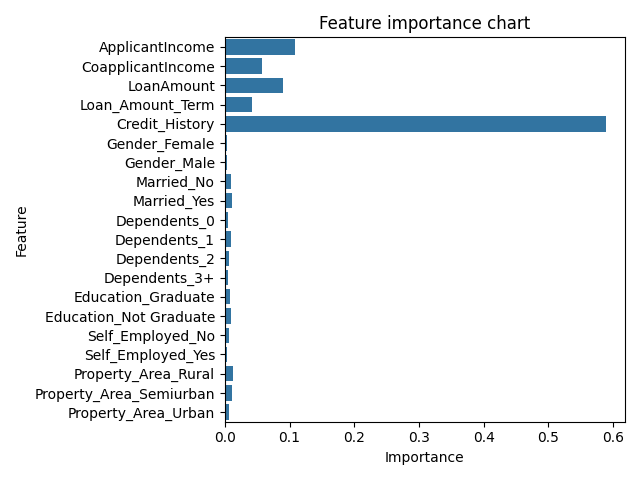
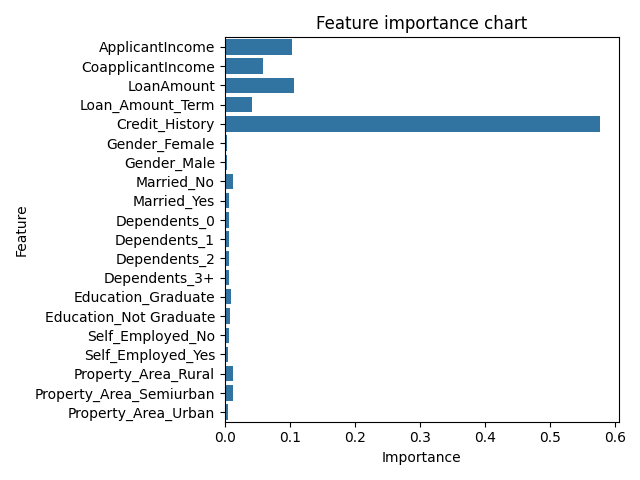
Update README.md

diff --git a/README.md b/README.md
@@ -1,35 +1,89 @@
-# loan_eligibility_prediction
-This app has been built using Streamlit and can be deployed using Streamlit Community Cloud.
+# loan_eligibility_model
+This app has been built using Streamlit and deployed with Streamlit Community Cloud.
 
 https://khra0005-loan-eligibility-model.streamlit.app/
 
-This application predicts whether a loan applicant is eligible for a loan based on various personal and financial characteristics. The model uses machine learning techniques to assist in decision-making for loan approvals.
+This application predicts whether a loan applicant is eligible for a loan based on personal and financial characteristics using supervised machine learning. The goal is to assist financial institutions in making faster and more accurate loan approval decisions.
 
 ## Features
-- User-friendly interface powered by Streamlit.
-- Input form to enter applicant details such as income, credit history, and employment status.
-- Real-time prediction of loan eligibility.
-- Feature importance visualization to understand key factors affecting loan approval.
-- Data visualization including correlation heatmaps and confusion matrix.
+* User-friendly interface powered by Streamlit.
+* Input form to enter applicant details such as income, loan amount, credit history, etc.
+* Predicts whether a loan will be approved.
+* Visualizations including:
+  * Correlation heatmap
+  * Feature importance chart
+  * Confusion matrix
+* Model saved for reuse.
 
 ## Dataset
-The application uses a dataset containing features such as:
-- Gender
-- Marital Status
-- Number of Dependents
-- Education Level
-- Self Employment Status
-- Applicant Income
-- Coapplicant Income
-- Loan Amount
-- Loan Term
-- Credit History
-- Property Area
-- Loan Approval Status (Target Variable)
+The application uses the **Loan Eligibility Dataset**, which includes the following features:
+* Loan_ID (removed during preprocessing)
+* Gender
+* Married
+* Dependents
+* Education
+* Self_Employed
+* ApplicantIncome
+* CoapplicantIncome
+* LoanAmount
+* Loan_Amount_Term
+* Credit_History
+* Property_Area
+* Loan_Status (target variable)
+
+## Machine Learning Approach
+* **Algorithm Used:** Random Forest Classifier
+* **Preprocessing:**
+  * Missing value handling
+  * One-hot encoding for categorical variables
+  * Feature scaling using MinMaxScaler
+* **Target Variable:**
+  * Loan_Status:
+    * Y → Approved
+    * N → Not Approved
+* **Evaluation:**
+  * Accuracy Score
+  * Confusion Matrix
+
+## Project Structure
+src/
+│
+├── data/
+│   └── make_dataset.py
+│
+├── features/
+│   └── build_features.py
+│
+├── models/
+│   ├── train_model.py
+│   └── predict_model.py
+│
+├── visualization/
+│   └── visualize.py
+│
+main.py
+streamlit.py
+requirements.txt
 
 ## Technologies Used
-- **Streamlit**: For building the interactive web application.
-- **Scikit-learn**: For model training and evaluation (Random Forest Classifier).
-- **Pandas** and **NumPy**: For data preprocessing and manipulation.
-- **Matplotlib** and **Seaborn**: For data visualization.
-- **Pickle**: For saving and loading the trained model.
+* **Streamlit**: For building the web application.
+* **Scikit-learn**: For classification (Random Forest) and evaluation.
+* **Pandas** and **NumPy**: For data preprocessing.
+* **Matplotlib** and **Seaborn**: For data visualization.
+
+## How to Run the Project
+### 1. Install dependencies
+`pip install -r requirements.txt`
+
+### 2. Run the pipeline
+`python main.py`
+
+### 3. Run the Streamlit app
+`python -m streamlit run streamlit.py`
+
+## Output
+* Trained model saved as:
+  `models/RFmodel.pkl`
+* Scaler saved as:
+  `models/scaler.pkl`
+* Visualizations displayed during execution